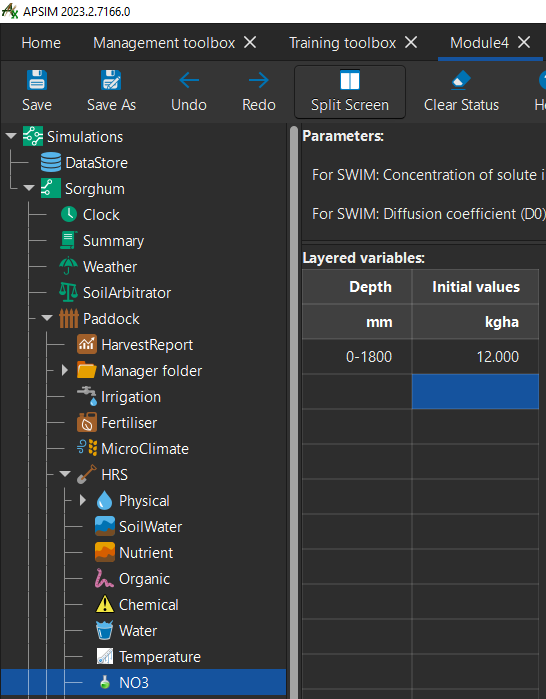
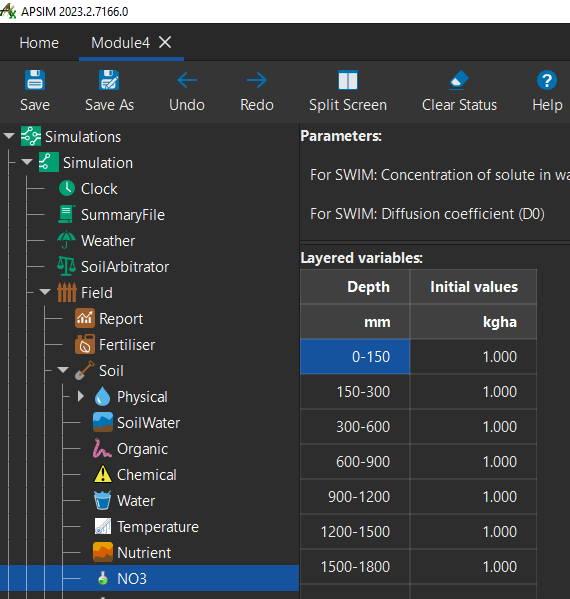
Change used example to `wheat`
- There were issues with Sorghum so wheat was chosen as it's more reliable.

diff --git a/Docs/content/User_tutorials/ModuleFour/module4.md b/Docs/content/User_tutorials/ModuleFour/module4.md
@@ -16,27 +16,29 @@ These skills can not only be used to experiment with fertiliser rates but also v
 - Rate of sowing.
 - Crop comparisons and different starting soil moisture conditions.
 
-1. Start a new simulation using the `sorgum.apsimx` example.
+1. Start a new simulation using the `Wheat.apsimx` example.
+![Open example simulation](/images/moduleFourImages/img1.png)
 	- you can find this in the `open an example` menu item
-2. Rename the simulation as `Sorghum 0kg Fertiliser`. 
+2. Rename the simulation as `Wheat`. 
 3. Save this simulation as `Module4`.
-![Save the simulation](/images/moduleFourImages/img1.png)
-4. Choose the `Dalby` met under the weather node.
-5. Set the start and end dates of the simulation as `1/1/1988 - 30/6/1988` under the `Clock` node.
-![Set dates](/images/moduleFourImages/img2.png)
-6. Set the starting water to 25% full - filled from top. This is under `HRS` then `Water`.
+![Save the simulation](/images/moduleFourImages/img2.png)
+4. Make sure that `Dalby.met` is the selected met file under the weather node.
+5. Set the start and end dates of the simulation as `1/01/1988 - 30/06/1988` under the `Clock` node.
+![Set dates](/images/moduleFourImages/img3.png)
+6. Set the starting water to 25% full - filled from top. This is under `Soil` then `Water`.
 ![Set starting water](/images/moduleFourImages/img4.png)
-7. Set the starting nitrogen to 12 kg/ha of NO3 and 3kg/ha of NH4, evenly distributed; refer to water node to get the depth range.
+7. Set the `initial values` column of both `NO3` and `NH4` to `kg/ha`.
 	![NO3](/images/moduleFourImages/img5.png)
 	![NH4](/images/moduleFourImages/img6.png)
-8. Copy and paste a `Sowing using a variable rule` management node from the management toolbox:
+8. Now let's make some changes to the `SowingRule` management node.
 9. Change the rules to reflect the following:
 ![Set sowing rules](/images/moduleFourImages/img7.png)
-10. By setting the sowing window start and end to the same data, we force the crop to be sown on that particular day. 
+10. Delete `SowingRule` in the manager folder. It is no loner needed.
+11. By setting the sowing window start and end to the same data, we force the crop to be sown on that particular day. 
 For other crops there is a specific `sow on a fixed date` management node that is simpler than this one, but we`re sowing sorghum which has extra options so we need to use this one.
-11. Change the `Fertilise at sowing` management node to reflect the following:
+12. Change the `Fertilise at sowing` management node to reflect the following:
 ![Set Fertilise at sowing node](/images/moduleFourImages/img8.png)
-12. Remove `Automatic irrigation based on water deficit` manager script.
-13. Now that we have our base simulation configured, let's configure our report variables.
+13. Remove `Automatic irrigation based on water deficit` manager script.
+14. Now that we have our base simulation configured, let's configure our report variables.
 
 	
